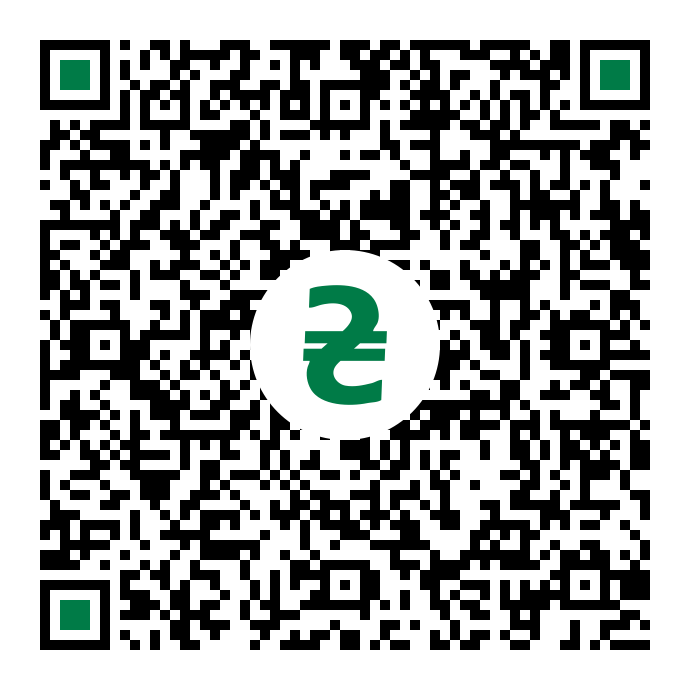
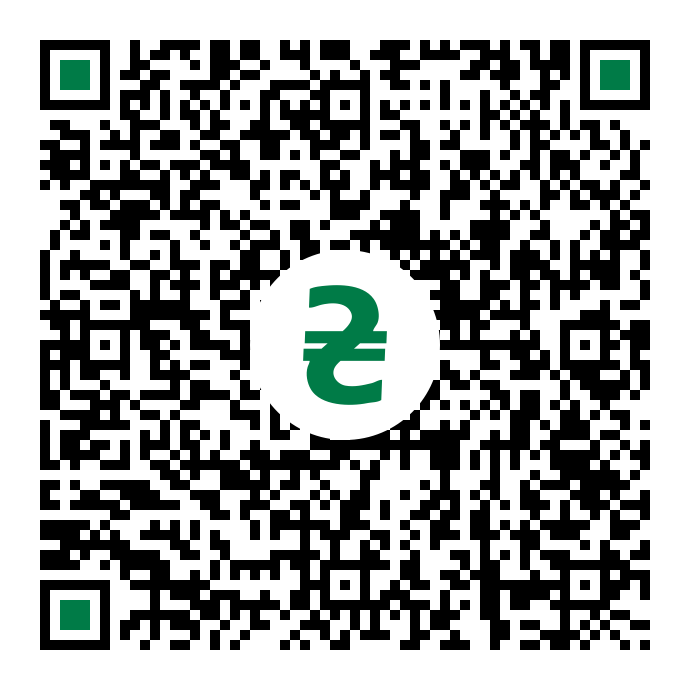
Encode empty category as OTHR/OTHR
Privat24 rejects QR codes and links with an empty field 10, including
the README demo QR. An empty category is still valid, but is now encoded
as ISO 20022 "other / other". Ports the Kotlin version's behaviour.

diff --git a/Sources/NBUQRCode/NBUQRFormat.swift b/Sources/NBUQRCode/NBUQRFormat.swift
@@ -11,6 +11,12 @@ enum NBUQRFormat {
     /// Версія формату 003 передбачає єдину валюту — гривню, тож валюта є
     /// константою формату, а не параметром платежу.
     static let currencyCode = "UAH"
+    /// Що кодується в поле 10, коли `category` порожня: "інше / інше" за ISO 20022
+    /// (код категорії `OTHR` і код цілі `OTHR`) — чесне "не вказано", а не вигаданий код.
+    /// Таблиця 2 позначає поле обовʼязковим, і Приват24 код із порожнім полем 10
+    /// відхиляє (і QR, і посилання; перевірено 02.10.2026), тоді як monobank і
+    /// Sense Bank приймають обидва варіанти.
+    static let fallbackCategory = "OTHR/OTHR"
     /// Максимальний обсяг даних, які кодуються в графічний QR-код
     /// (додаток 4, п. 8 розділу IV). Обмеження стосується саме зображення,
     /// тому на посилання (`deepLink`) не поширюється.
@@ -79,7 +85,7 @@ enum NBUQRFormat {
             ascii(payment.normalizedIBAN),
             ascii(formatAmount(payment.amount)),
             text(payment.recipientCode),
-            ascii(payment.category),
+            ascii(payment.category.isEmpty ? fallbackCategory : payment.category),
             ascii(payment.reference),
             text(payment.purpose),
             text(payment.displayText),

diff --git a/Tests/NBUQRCodeTests/NBUQRPaymentValidationTests.swift b/Tests/NBUQRCodeTests/NBUQRPaymentValidationTests.swift
@@ -154,11 +154,20 @@ final class NBUQRPaymentValidationTests: XCTestCase {
         }
     }
 
-    // Порожнє поле 10 банки опрацьовують коректно, і офіційного переліку
-    // значень CCCC/PPPP немає — тож порожнє значення лишається валідним.
+    // Офіційного переліку значень CCCC/PPPP немає, тож вимагати поле 10 від
+    // користувача не можна — порожнє значення лишається валідним.
     func testEmptyCategoryPasses() {
         var o = validPayment(); o.category = ""
         XCTAssertEqual(o.validate(), [])
+    }
+
+    // Приват24 відхиляє код із порожнім полем 10 (і QR, і посилання), тож порожня
+    // категорія кодується як "інше / інше" за ISO 20022, а не лишається порожньою.
+    func testEmptyCategoryIsEncodedAsOther() throws {
+        var o = validPayment(); o.category = ""
+        XCTAssertEqual(try parsedQR(o).category, "OTHR/OTHR")
+        let withDefaults = NBUQRPayment(recipient: "К", iban: "UA511234567890123456789012345", recipientCode: "1", purpose: "Ч")
+        XCTAssertEqual(try NBUQRDecoder.parse(payload: NBUQRPayload(withDefaults).value).category, "OTHR/OTHR")
     }
 
     func testTooLongReferenceFails() {

diff --git a/Sources/NBUQRCode/NBUQRPayment.swift b/Sources/NBUQRCode/NBUQRPayment.swift
@@ -48,7 +48,9 @@ public struct NBUQRPayment: Hashable, Sendable {
     public var amount: Decimal?
     /// Код отримувача коштів (поле 9, до 10 байтів в обраному кодуванні).
     public var recipientCode: String
-    /// Код категорії/цілі у форматі CCCC/PPPP за ISO 20022 (поле 10).
+    /// Код категорії/цілі у форматі CCCC/PPPP за ISO 20022 (поле 10). Порожнє значення
+    /// в QR-код потрапляє як `OTHR/OTHR` ("інше / інше"): поле 10 обовʼязкове, і Приват24
+    /// код із порожнім полем відхиляє.
     public var category: String
     /// Ідентифікатор рахунку на оплату отримувача (поле 11, до 35 символів ASCII).
     public var reference: String

diff --git a/README.md b/README.md
@@ -19,7 +19,7 @@ Swift Package Manager:
 
 ```swift
 dependencies: [
-    .package(url: "https://github.com/skules777/nbu-qr-code-swift", from: "1.0.0")
+    .package(url: "https://github.com/skules777/nbu-qr-code-swift", from: "1.0.1")
 ]
 ```
 
@@ -132,6 +132,17 @@ NBUQRImageRenderer(accentColor: NBUQRColor(hex: "#1A237E")!)  // колір ва
 
 Колір отримують знак ₴ і центри трьох кутових квадратів. Надто світлий колір
 рендер відхилить, щоб код лишився читабельним.
+
+### Категорія (поле 10)
+
+```swift
+category: "MP2P/MP2B" // код категорії / цілі за ISO 20022
+category: ""          // за замовчуванням: у QR-код потрапляє OTHR/OTHR («інше / інше»)
+```
+
+Порожнім поле 10 бібліотека не лишає: постанова позначає його обовʼязковим, а
+Приват24 код із порожнім полем відхиляє. Деталі — у
+[docs/NBU-COMPLIANCE.md](docs/NBU-COMPLIANCE.md#кодування-даних).
 
 ### Заборона змінювати поля
 

diff --git a/CHANGELOG.md b/CHANGELOG.md
@@ -1,0 +1,12 @@
+# Changelog
+
+## 1.0.1
+
+- Порожня категорія (поле 10) тепер кодується як `OTHR/OTHR` («інше / інше» за
+  ISO 20022), а не лишається порожньою: Приват24 відхиляє QR-коди й посилання з
+  порожнім полем 10, зокрема демо-QR з README 1.0.0. API не змінився; порожня
+  `category` і далі валідна.
+
+## 1.0.0
+
+Перший реліз.
